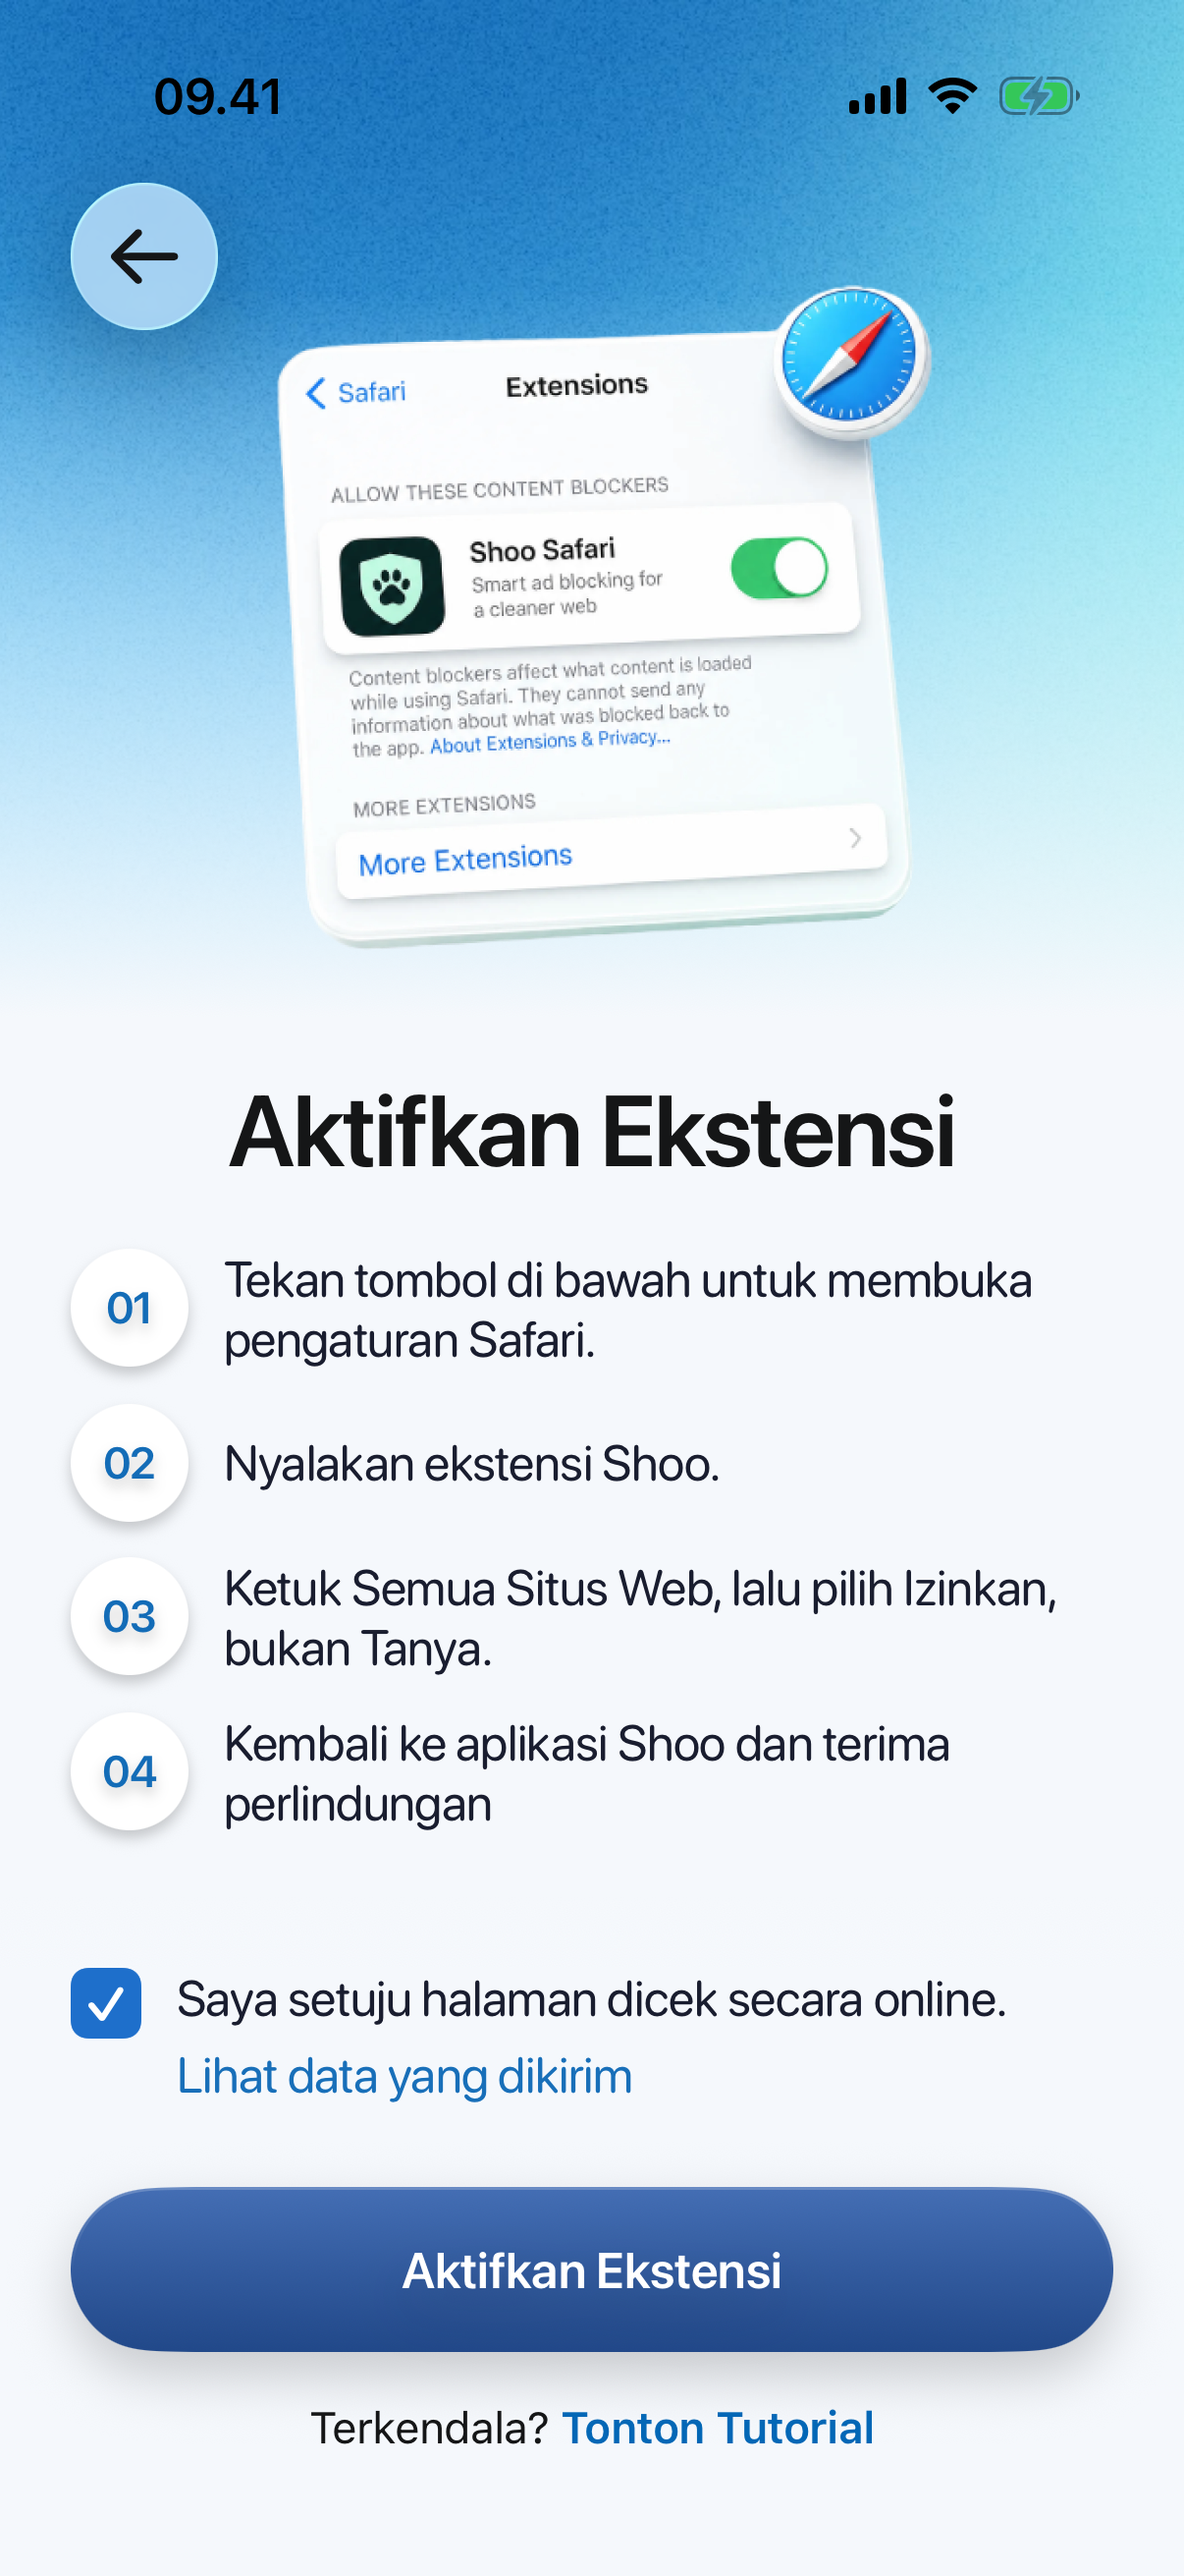
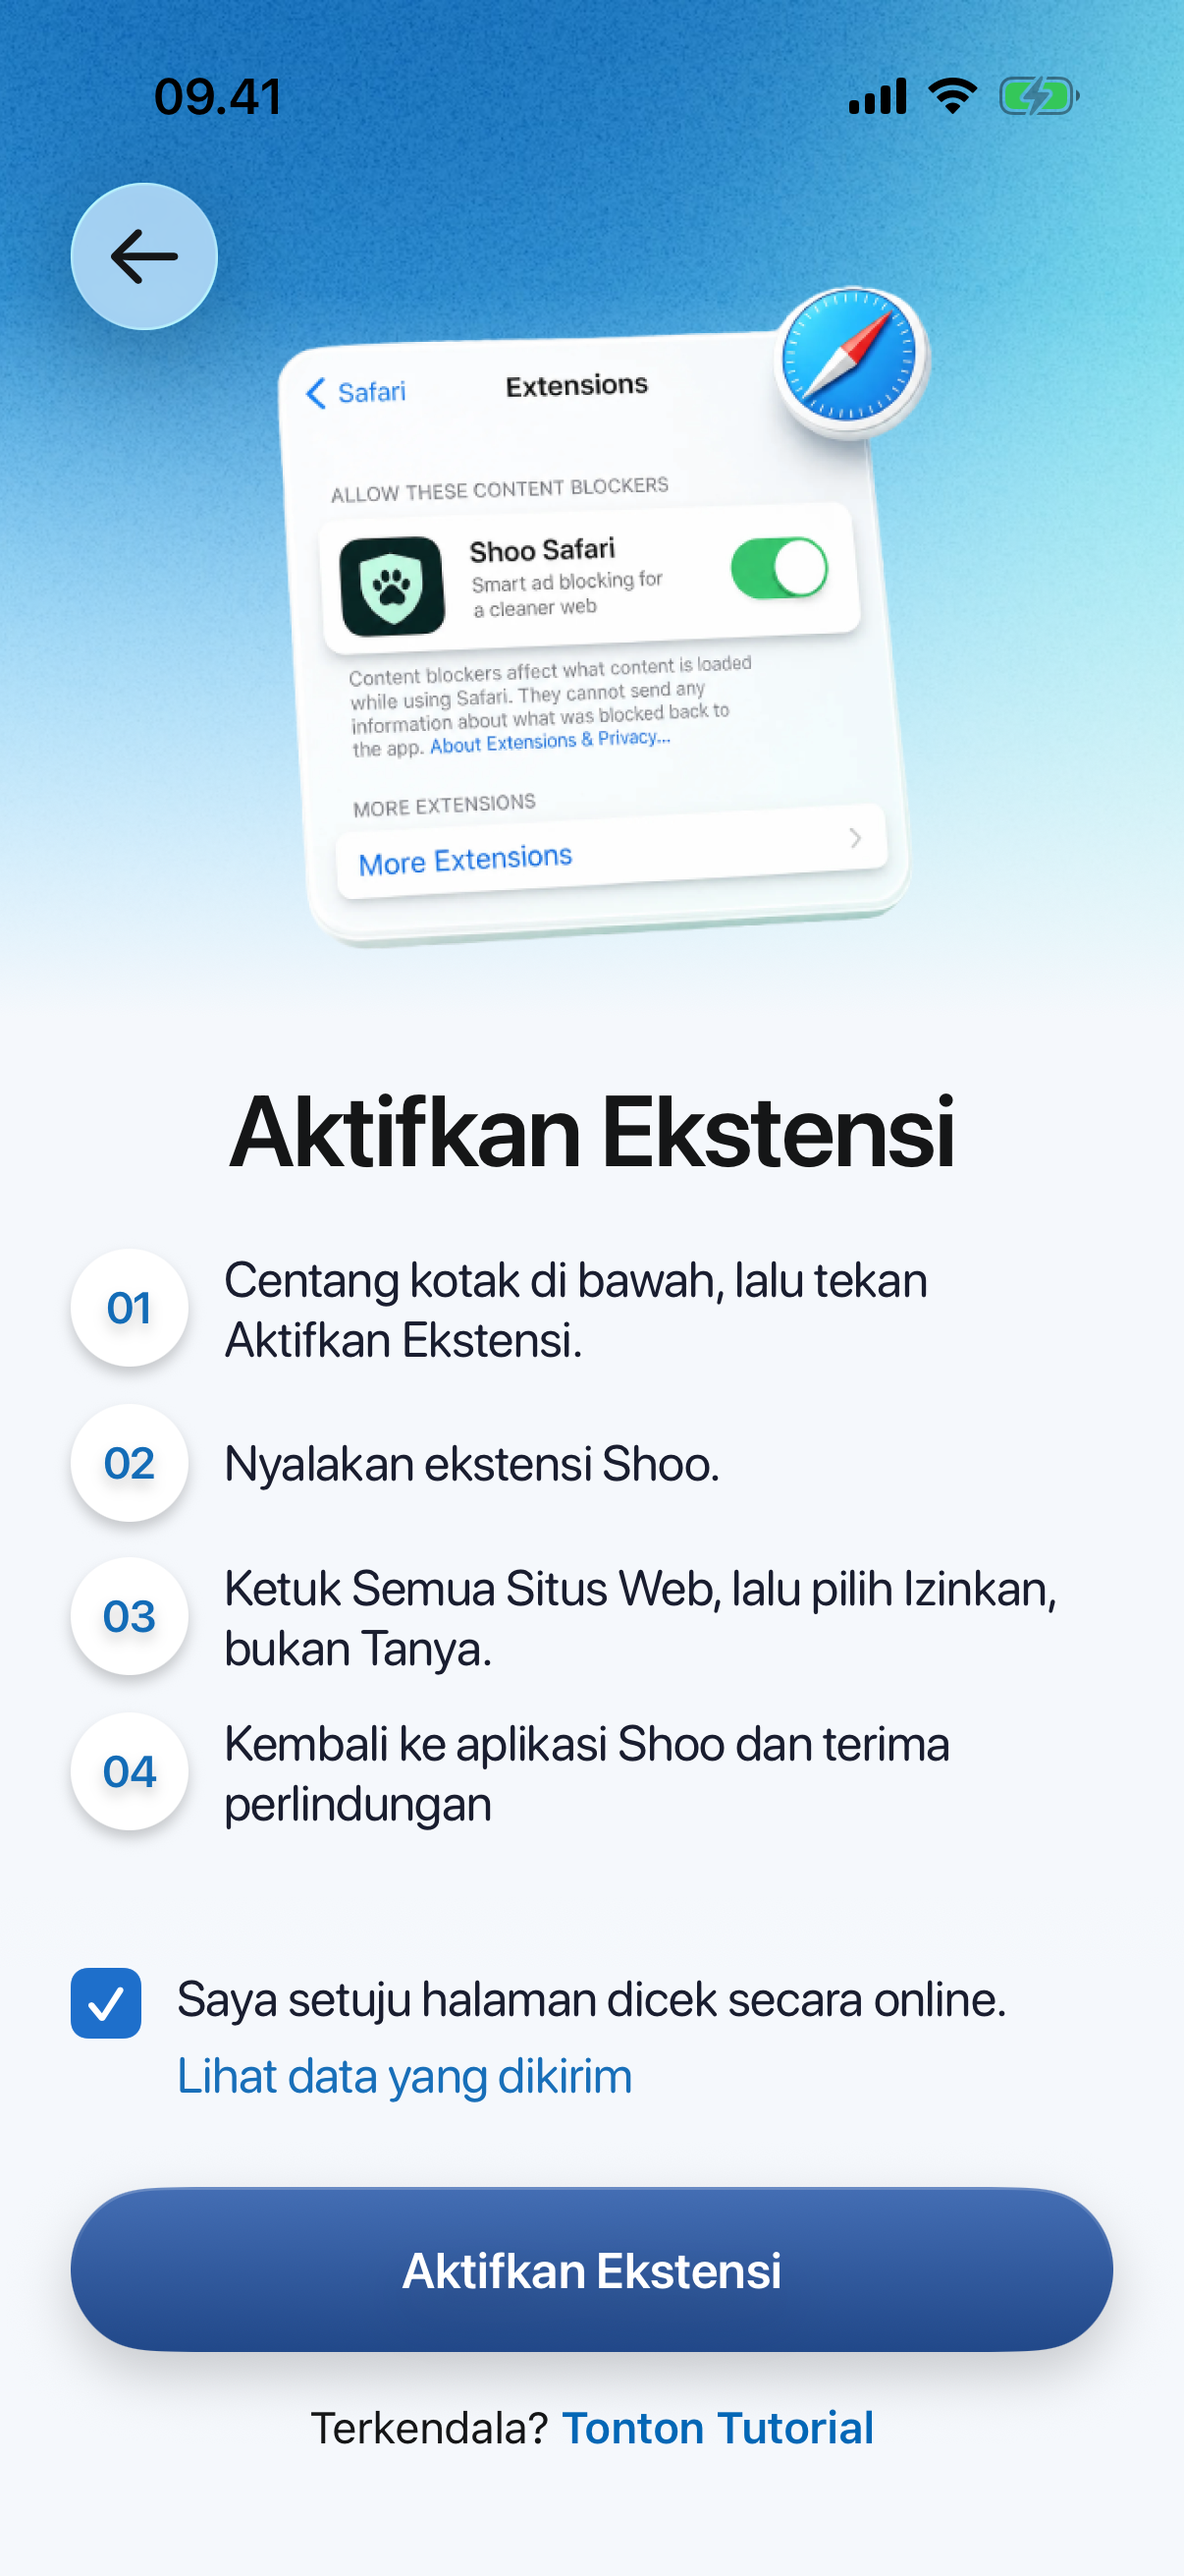
fix(ON-04): step 01 says to tick the box, then tap Turn on
Alief (20 Nov 2026): "Tap the button below" pointed at a button that
stays grey until the consent box is ticked. While the box shows, step 01
reads "Tick the box below, then tap Turn on the extension." Without the
box (answered on an earlier install, Shield's sheet) it keeps the old text.
The red hint stays as a backup. Retakes the after screenshots.

Changed region(s): [[0.1841, 0.4943, 0.859, 0.5252]]

diff --git a/ios/ShooApp/UITests/OnboardingUITests.swift b/ios/ShooApp/UITests/OnboardingUITests.swift
@@ -73,6 +73,9 @@ final class OnboardingUITests: XCTestCase {
         XCTAssertFalse(app.descendants(matching: .any)["extension.offHint"].exists)
         let hint = app.descendants(matching: .any)["extension.consentHint"]
         XCTAssertFalse(hint.exists)
+        if #available(iOS 26.2, *) {
+            XCTAssertTrue(app.staticTexts["Tick the box below, then tap Turn on the extension."].exists, app.debugDescription)
+        }
         // Figma 110:4505: grey until ticked. A tap says to tick the box first and does not leave for Settings.
         turnOn.tap()
         XCTAssertTrue(hint.waitForExistence(timeout: 5), app.debugDescription)
@@ -158,6 +161,10 @@ final class OnboardingUITests: XCTestCase {
         let app = launch(extensionActive: false, extensionStatus: "someSitesOnly")
         app.onboardName("Rina")
         XCTAssertTrue(app.buttons["extension.turnOn"].waitForExistence(timeout: 5), app.debugDescription)
+        // The mock answered the data question, so there is no box and step 01 keeps "Tap the button below".
+        if #available(iOS 26.2, *) {
+            XCTAssertTrue(app.staticTexts["Tap the button below to open Safari settings."].exists, app.debugDescription)
+        }
         XCTAssertTrue(app.staticTexts["Tap All Websites and choose Allow, not Ask."].exists, app.debugDescription)
         XCTAssertTrue(app.descendants(matching: .any)["extension.step.4"].exists, app.debugDescription)
         XCTAssertTrue(app.descendants(matching: .any)["extension.offHint"].waitForExistence(timeout: 5), app.debugDescription)

diff --git a/ios/ShooApp/Features/Onboarding/TurnOnExtensionView.swift b/ios/ShooApp/Features/Onboarding/TurnOnExtensionView.swift
@@ -50,6 +50,13 @@ struct TurnOnExtensionView: View {
 
     private var isWorking: Bool { consent?.isWorking ?? false }
     /// Onboarding with the box on screen and not ticked yet: the buttons look disabled.
+    /// Step 01 names the box, because the button stays grey until it is ticked (Alief, 20 Nov 2026). Without the
+    /// box (answered on an earlier install, or Shield's sheet) it still says "Tap the button below".
+    private func text(for step: ExtensionSetup.Step) -> LocalizedStringKey {
+        if step == .tapTurnOn, consent?.showsCheckbox == true { return "Tick the box below, then tap Turn on the extension." }
+        return step.text
+    }
+
     private var needsConsent: Bool { consent.map { $0.showsCheckbox && !$0.isChecked } ?? false }
     private var showsConsentHint: Bool { consentNudges > 0 && needsConsent }
 
@@ -81,7 +88,7 @@ struct TurnOnExtensionView: View {
                 // Once the switch is known to be on, the setup steps are done; only the callout is left.
                 if !showsStatusNote || nextStep?.opensSafariFirst != true {
                     ForEach(Array(steps.enumerated()), id: \.offset) { index, step in
-                        OnboardingStepRow(number: index + 1, text: step.text)
+                        OnboardingStepRow(number: index + 1, text: text(for: step))
                             .accessibilityIdentifier("extension.step.\(index + 1)")
                     }
                 }
